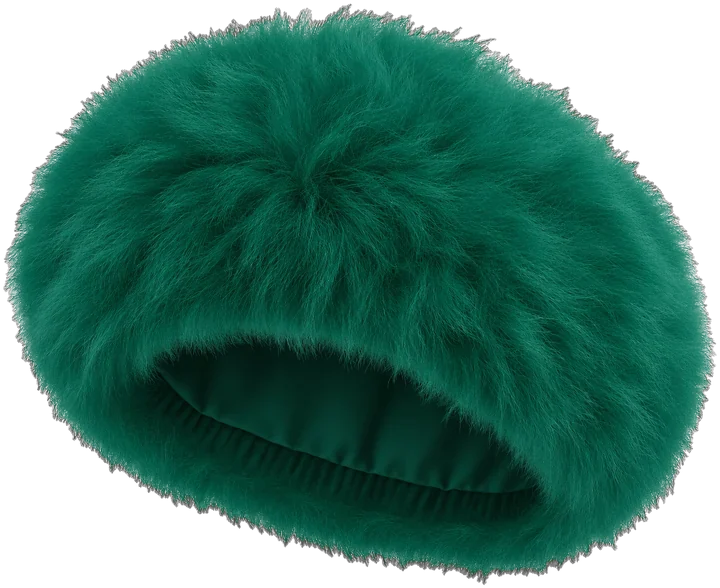
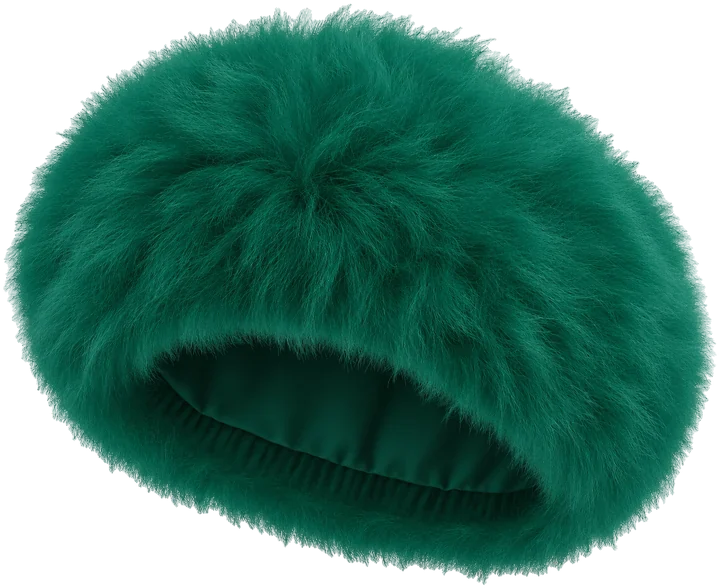
feat(room): Add room and green hat
Introduce 'Madeleine' room and related assets: add three photos (madeleine-portrait.webp, madeleine.webp, map/madeleine.webp) and update an existing green hat image. Integrate the room across the app: add to PLACES and PLACE_NAMES, expose a SeasonRoom in PalaisHome, register the room in ROOMS (portrait, no seasons), add a Stop to WorldMap, and make the room visible in palais.css. Mark Madeleine photos as STILL in LivingPhoto's regex. Also add the green-faux-fur-round-hat garment and include it in wardrobe item lists and hooks/seat arrays.

diff --git a/src/palais/clothes.ts b/src/palais/clothes.ts
@@ -224,6 +224,7 @@ export const CLOTHES = wardrobe({
   "cloud_cardigan_blue_white_knit_sticker": { label: "Blue cloud knit cardigan", store: "Closet", bought: "", kind: "top" },
   "red-faux-fur-round-hat": { label: "Red faux fur round hat", store: "Closet", bought: "", kind: "hat" },
   "pink-faux-fur-round-hat": { label: "Pink faux fur round hat", store: "Closet", bought: "", kind: "hat" },
+  "green-faux-fur-round-hat": { label: "Green faux fur round hat", store: "Closet", bought: "", kind: "hat" },
 });
 
 export type GarmentId = keyof typeof CLOTHES;
@@ -331,7 +332,7 @@ const WIDE: Line[] = [
   { id: "right-low", name: "Right bay · lower rail", ids: ["shein-plaid-bowskirt", "ref-ren-skirt", "shein-fairisle-skirt", "shein-plaid-tieskirt", "shein-pleated-khaki", "ref-sutton-shorts"], from: [1598, 638], to: [1472, 622], w: [100, 90], hang: true, z: 72 },
   // the middle of the window seat, between the two rails
   // hooks on the moulding round the window: a row along its top, and a row down its right side, beside the mirror
-  { id: "window-hooks-top", name: "Window moulding · hooks across the top", ids: ["shein-white-fur-hat", "shein-bear-ear-bonnet", "shein-mint-fur-bucket-hat", "shein-lamb-bonnet", "shein-black-fur-beanie", "icelandic-white-fur-hat", "brown-faux-fur-round-hat", "beige-rib-knit-pom-pom-ears-beanie", "lavender-lace-head-scarf", "red-faux-fur-round-hat", "pink-faux-fur-round-hat"], from: [640, 281], to: [1180, 281], w: [60, 60], hang: true, z: 36, hooks: 12 },
+  { id: "window-hooks-top", name: "Window moulding · hooks across the top", ids: ["shein-white-fur-hat", "shein-bear-ear-bonnet", "shein-mint-fur-bucket-hat", "shein-lamb-bonnet", "shein-black-fur-beanie", "icelandic-white-fur-hat", "brown-faux-fur-round-hat", "beige-rib-knit-pom-pom-ears-beanie", "lavender-lace-head-scarf", "red-faux-fur-round-hat", "pink-faux-fur-round-hat", "green-faux-fur-round-hat"], from: [640, 281], to: [1180, 281], w: [60, 60], hang: true, z: 36, hooks: 12 },
   { id: "window-hooks-side", name: "Window moulding · hooks down the right", ids: ["etsy-purple-veil", "temu-mantilla", "temu-fur-headband", "etsy-bernadette-veil", "light-blue-floral-lace-trim-head-scarf", "pink-floral-lace-trim-head-scarf"], from: [1219, 336], to: [1219, 636], w: [54, 54], hang: true, z: 36, hooks: 6 },
   { id: "seat", name: "Window seat", ids: ["temu-saddle-bag", "shein-fluffy-shawl", "temu-bow-handbag", "pink-sherpa-pom-pom-bucket-bag", "white-prada-re-edition-shoulder-bag", "louis-vuitton-denim-monogram-pochette", "louis-vuitton-damier-azur-felicie-pochette"], from: [918, 690], to: [1020, 690], w: [74, 74], z: 20 },
   // the two rolling rails
@@ -368,7 +369,7 @@ const TALL: Line[] = [
   { id: "right-top", name: "Right bay · top rail", ids: ["temu-offshoulder-dress", "shein-cable-set", "shein-check-cami", "shein-dazy-set", "shein-ribbed-top", "black-ruffle-pleated-skirt", "black-belted-pleated-shorts"], from: [800, 450], to: [742, 492], w: [64, 56], hang: true, z: 70 },
   { id: "right-low", name: "Right bay · lower rail", ids: ["shein-fairisle-skirt", "shein-plaid-bowskirt", "shein-plaid-tieskirt", "shein-pleated-khaki", "ref-sutton-shorts", "ref-ren-skirt", "strawberry-print-pink-string-bikini", "black-pink-trim-string-bikini"], from: [800, 876], to: [742, 864], w: [62, 56], hang: true, z: 72 },
   // the window seat
-  { id: "seat", name: "Window seat", ids: ["temu-saddle-bag", "temu-fur-buckethat", "temu-rose-beanie", "shein-fluffy-shawl", "temu-fur-headband", "temu-bow-handbag", "dh-check-tote", "dh-hobo-bag", "dh-brown-tote", "shein-bear-ear-bonnet", "shein-black-fur-beanie", "shein-lamb-bonnet", "shein-white-fur-hat", "shein-mint-fur-bucket-hat", "burberry-canvas-tote", "prada-blue-bag", "gucci-gg-shoulder-bag", "icelandic-white-fur-hat", "pink-sherpa-pom-pom-bucket-bag", "black-faux-fur-cuff-bracelets-pair", "white-faux-fur-cuff-bracelets-pair", "white-prada-re-edition-shoulder-bag", "louis-vuitton-denim-monogram-pochette", "louis-vuitton-damier-azur-felicie-pochette", "brown-faux-fur-round-hat", "beige-rib-knit-pom-pom-ears-beanie", "red-faux-fur-round-hat", "pink-faux-fur-round-hat"], from: [318, 948], to: [578, 948], w: [50, 50], z: 20 },
+  { id: "seat", name: "Window seat", ids: ["temu-saddle-bag", "temu-fur-buckethat", "temu-rose-beanie", "shein-fluffy-shawl", "temu-fur-headband", "temu-bow-handbag", "dh-check-tote", "dh-hobo-bag", "dh-brown-tote", "shein-bear-ear-bonnet", "shein-black-fur-beanie", "shein-lamb-bonnet", "shein-white-fur-hat", "shein-mint-fur-bucket-hat", "burberry-canvas-tote", "prada-blue-bag", "gucci-gg-shoulder-bag", "icelandic-white-fur-hat", "pink-sherpa-pom-pom-bucket-bag", "black-faux-fur-cuff-bracelets-pair", "white-faux-fur-cuff-bracelets-pair", "white-prada-re-edition-shoulder-bag", "louis-vuitton-denim-monogram-pochette", "louis-vuitton-damier-azur-felicie-pochette", "brown-faux-fur-round-hat", "beige-rib-knit-pom-pom-ears-beanie", "red-faux-fur-round-hat", "pink-faux-fur-round-hat", "green-faux-fur-round-hat"], from: [318, 948], to: [578, 948], w: [50, 50], z: 20 },
   { id: "mirror", name: "Top of the mirror", ids: ["shein-ballet-bows"], from: [655, 560], to: [655, 560], w: [40, 40], hang: true, z: 20 },
   // the rolling rails: the far one with the dresses, the near one with knits and swim
   { id: "rack-back", name: "Back rolling rack", ids: ["amz-tulle-dress-blue", "amz-tulle-dress-green", "amz-fairies-dress", "temu-ditsy-splitdress", "temu-satin-robe", "ref-shai-dress", "dh-tweed-set-ivory", "dh-tweed-set-black", "dh-knit-skirt-set", "cider-velvet-corset-dress", "cider-ruffle-velvet-dress", "romi-miranda-dress", "cider-jacquard-bandeau-dress", "cider-wine-bandeau-dress", "shein-green-organza-dress", "yellow-floral-dress", "brown-bow-dress", "maroon-corduroy-overall-dress", "lavender-flower-dress", "wona-istanbul-chiffon-ruffle-dress-black", "blue-corset-mini-dress", "black-beige-pleated-belted-dress", "denim-corset-flared-dress", "hm-black-white-piped-keyhole-mini-dress", "navy_satin_lace_slip_dress_sticker", "cream_rose_floral_lace_dress_sticker", "ivory_satin_lace_slip_dress_sticker", "forest_green_lace_satin_dress_sticker", "mint_green_ruffled_corset_gown_sticker", "powder_blue_scarf_maxi_dress_sticker"], from: [320, 1010], to: [620, 1010], w: [80, 80], hang: true, z: 30 },

diff --git a/src/palais/place.ts b/src/palais/place.ts
@@ -12,7 +12,7 @@ import { createContext, useCallback, useContext, useEffect, useState } from "rea
  * opens the same room.
  */
 
-export const PLACES = ["palace", "kitchen", "bathroom", "garden", "closet", "lakehouse", "lagoon", "rainwood", "gorge", "domes", "jacaranda", "reef", "lanterns", "shore", "caves"] as const;
+export const PLACES = ["palace", "kitchen", "bathroom", "garden", "closet", "lakehouse", "lagoon", "rainwood", "gorge", "domes", "jacaranda", "reef", "lanterns", "shore", "caves", "madeleine"] as const;
 export type Place = (typeof PLACES)[number];
 
 const fromHash = (): Place => {
@@ -64,4 +64,5 @@ export const PLACE_NAMES: Record<Place, string> = {
   lanterns: "The Lantern Isles",
   shore: "The Shore of All Shores",
   caves: "The Hollow of Small Stars",
+  madeleine: "Madeleine's Room",
 };

diff --git a/src/palais/WorldMap.tsx b/src/palais/WorldMap.tsx
@@ -215,6 +215,18 @@ const STOPS: Stop[] = [
     seed: 37,
     room: "lagoon",
   },
+  {
+    id: "madeleine",
+    name: "Madeleine's Room",
+    tag: "upstairs, facing the sea",
+    blurb: "A round pink room with gilt shells on the walls and a painted sky on the ceiling, where lace curtains open onto a balcony of roses and the sun going down into the sea.",
+    finds: ["A mosaic floor of blue flowers", "Bougainvillea over the balcony", "The sunset path across the water"],
+    color: "#ffc2cf",
+    at: [592, 96],
+    patch: [48, 36],
+    seed: 151,
+    room: "madeleine",
+  },
 ];
 
 function rng(seed: number) {

diff --git a/src/palais/palais.css b/src/palais/palais.css
@@ -152,7 +152,8 @@
 .palais [data-place="reef"] .palais-room--reef,
 .palais [data-place="lanterns"] .palais-room--lanterns,
 .palais [data-place="shore"] .palais-room--shore,
-.palais [data-place="caves"] .palais-room--caves { opacity: 1; }
+.palais [data-place="caves"] .palais-room--caves,
+.palais [data-place="madeleine"] .palais-room--madeleine { opacity: 1; }
 /* the stickers follow you into every room, each room with its own layout
    (roomLayouts.ts), as do the weather and the flyers; the terrace's pollen
    stays on the terrace */

diff --git a/src/palais/SeasonRoom.tsx b/src/palais/SeasonRoom.tsx
@@ -39,6 +39,8 @@ const ROOMS: Record<Exclude<Place, "palace">, { file: string; focus: string; sea
   shore: { file: "shore", focus: "50% 55%", portrait: true },
   // the glowworm grotto opening onto hobbit hills, a mountain and hot springs
   caves: { file: "caves", focus: "50% 55%", portrait: true },
+  // Madeleine's room: pink panelled walls, a mosaic floor, and the sea at sunset through the arch; one photograph for now
+  madeleine: { file: "madeleine", focus: "50% 60%", seasons: false, portrait: true },
 };
 
 /**

diff --git a/src/palais/LivingPhoto.tsx b/src/palais/LivingPhoto.tsx
@@ -130,7 +130,7 @@ void main() {
 const maskFor = (src: string) => src.replace(/\/palais\/([^/]+)\.webp$/, "/palais/masks/$1.webp");
 
 /** photographs with nothing to animate (no sky or water in the picture) */
-const STILL = /\/palais\/(rainwood|kitchen-\w+|bathroom-\w+|garden-\w+)\.webp$/;
+const STILL = /\/palais\/(rainwood|kitchen-\w+|bathroom-\w+|garden-\w+|madeleine(?:-portrait)?)\.webp$/;
 
 function compile(gl: WebGLRenderingContext, type: number, src: string) {
   const sh = gl.createShader(type)!;

diff --git a/src/palais/PalaisHome.tsx b/src/palais/PalaisHome.tsx
@@ -148,6 +148,7 @@ export default function PalaisHome() {
           <SeasonRoom place="lanterns" />
           <SeasonRoom place="shore" />
           <SeasonRoom place="caves" />
+          <SeasonRoom place="madeleine" />
           {/* the clothes in the Wardrobe Wing */}
           <Wardrobe />
           {/* snow and falling leaves, with the seasons: behind the furniture, and past the camera */}
